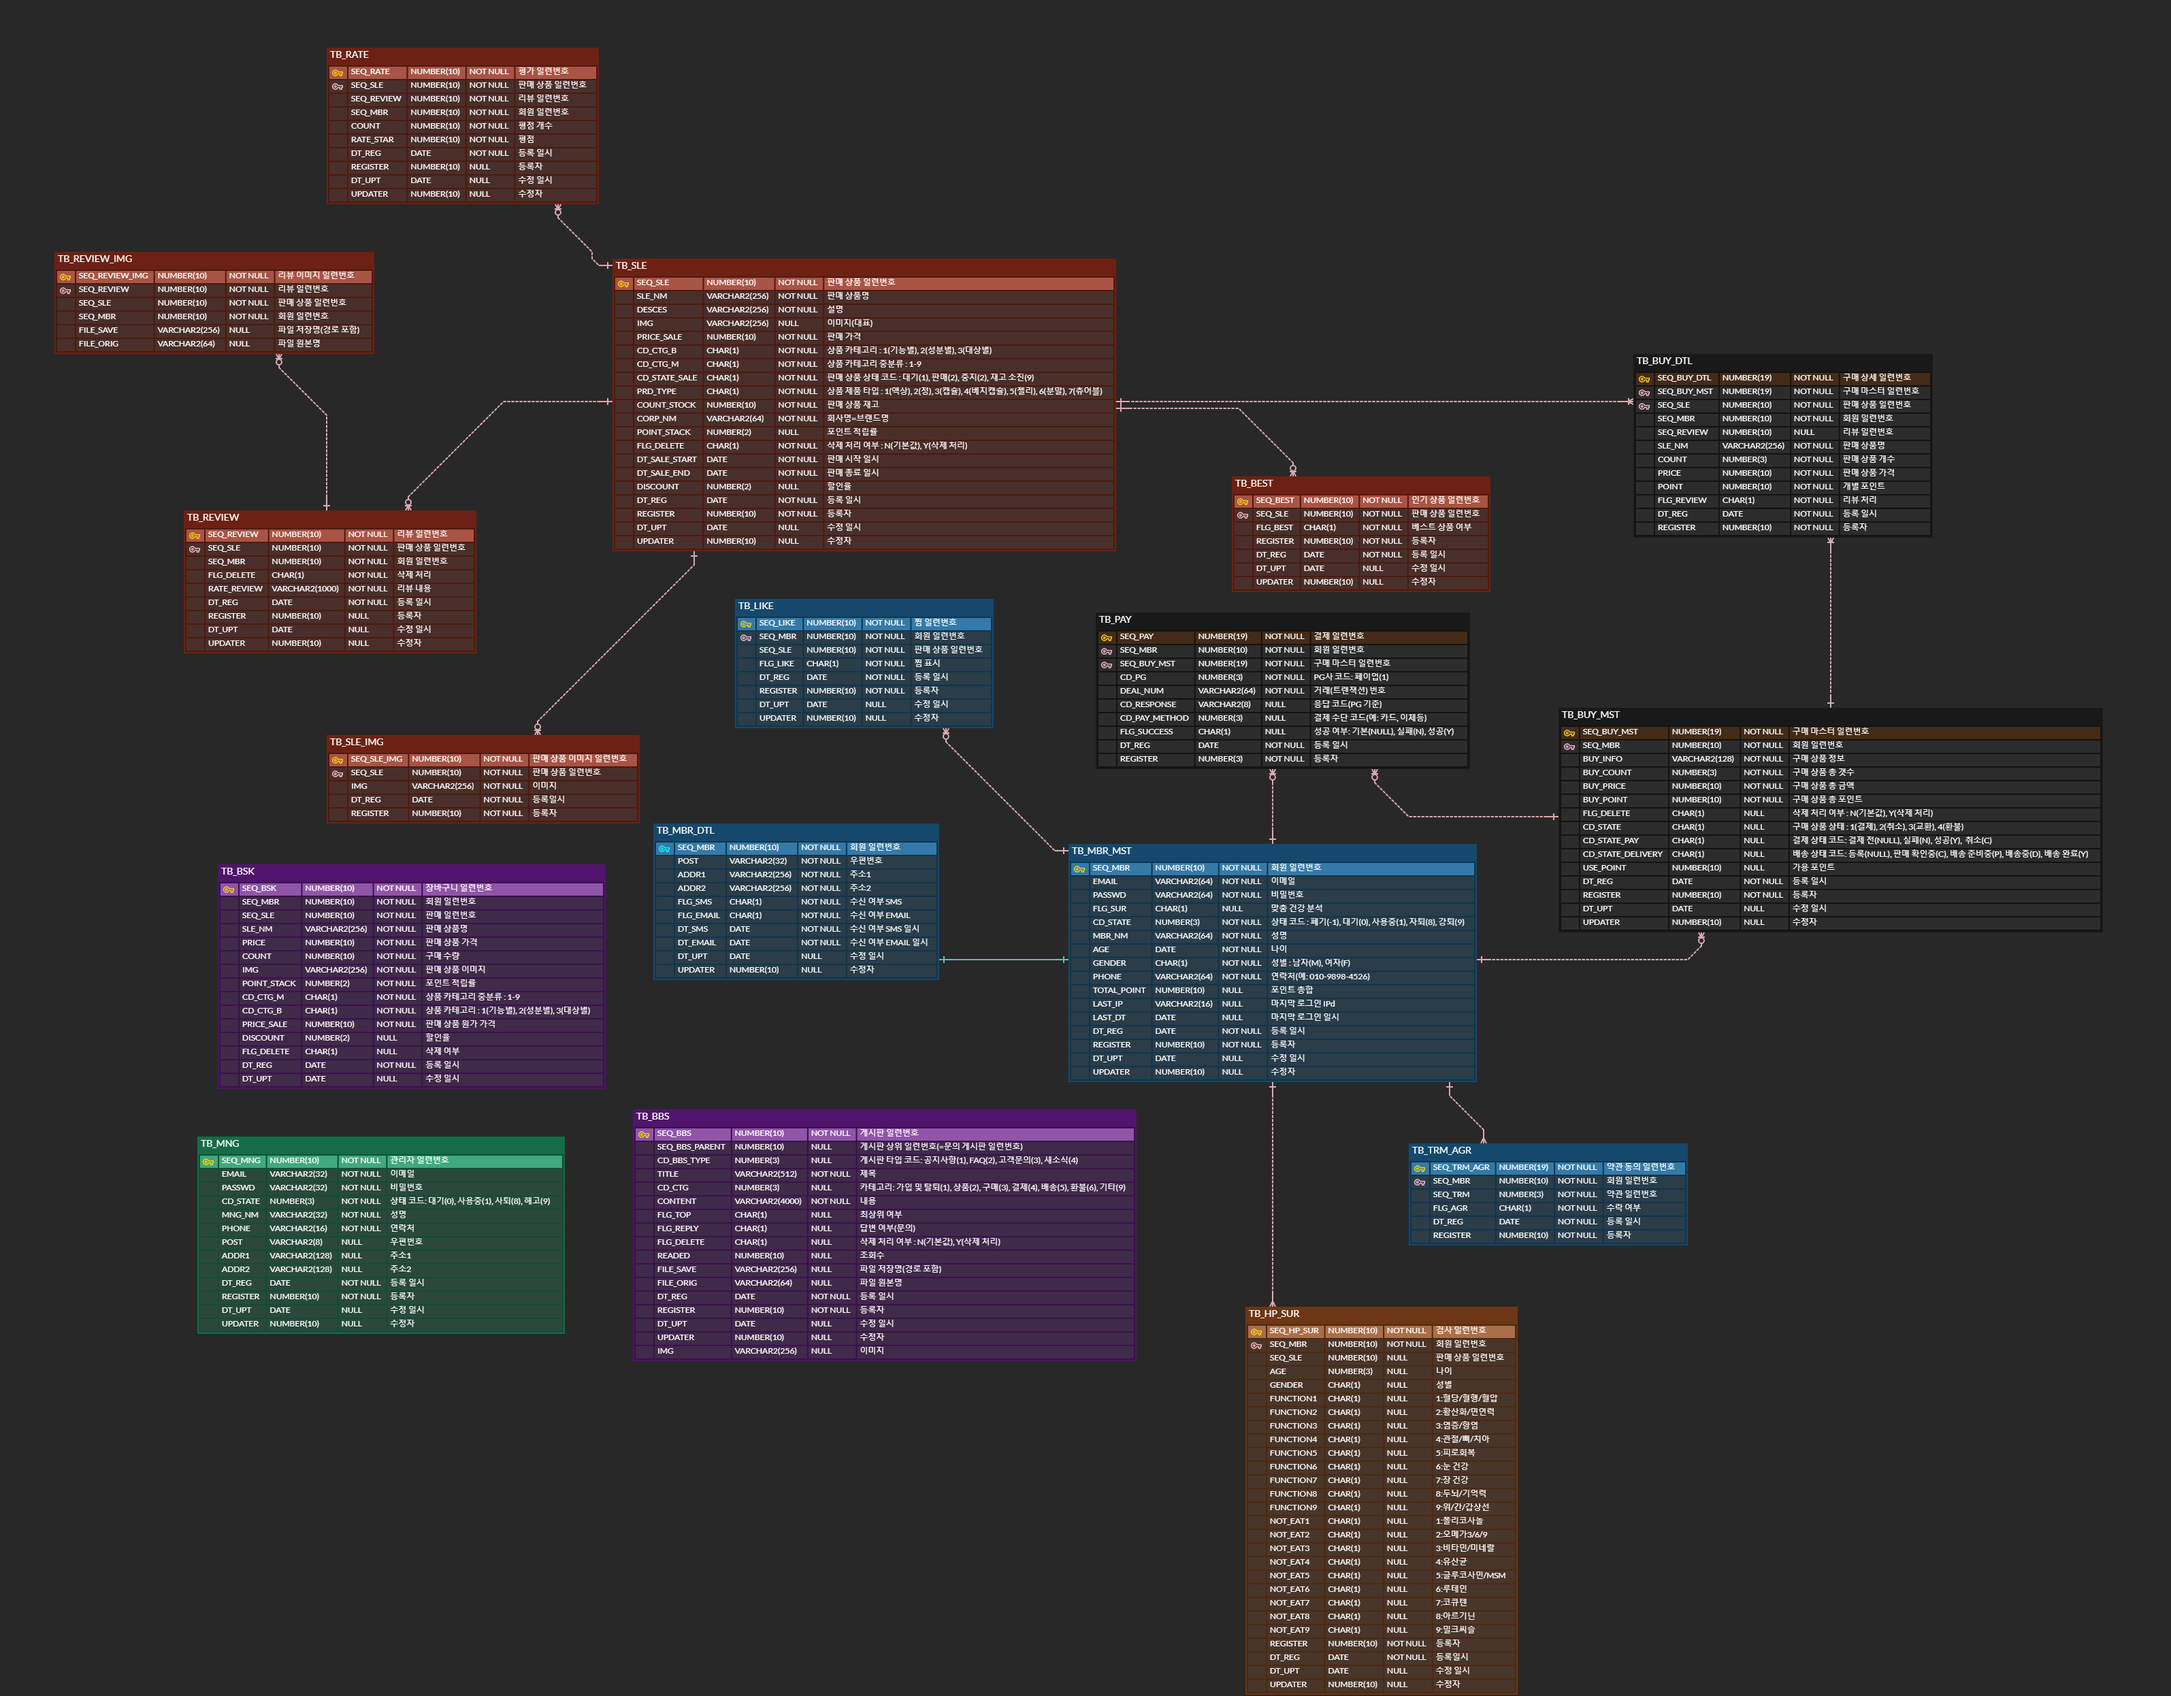
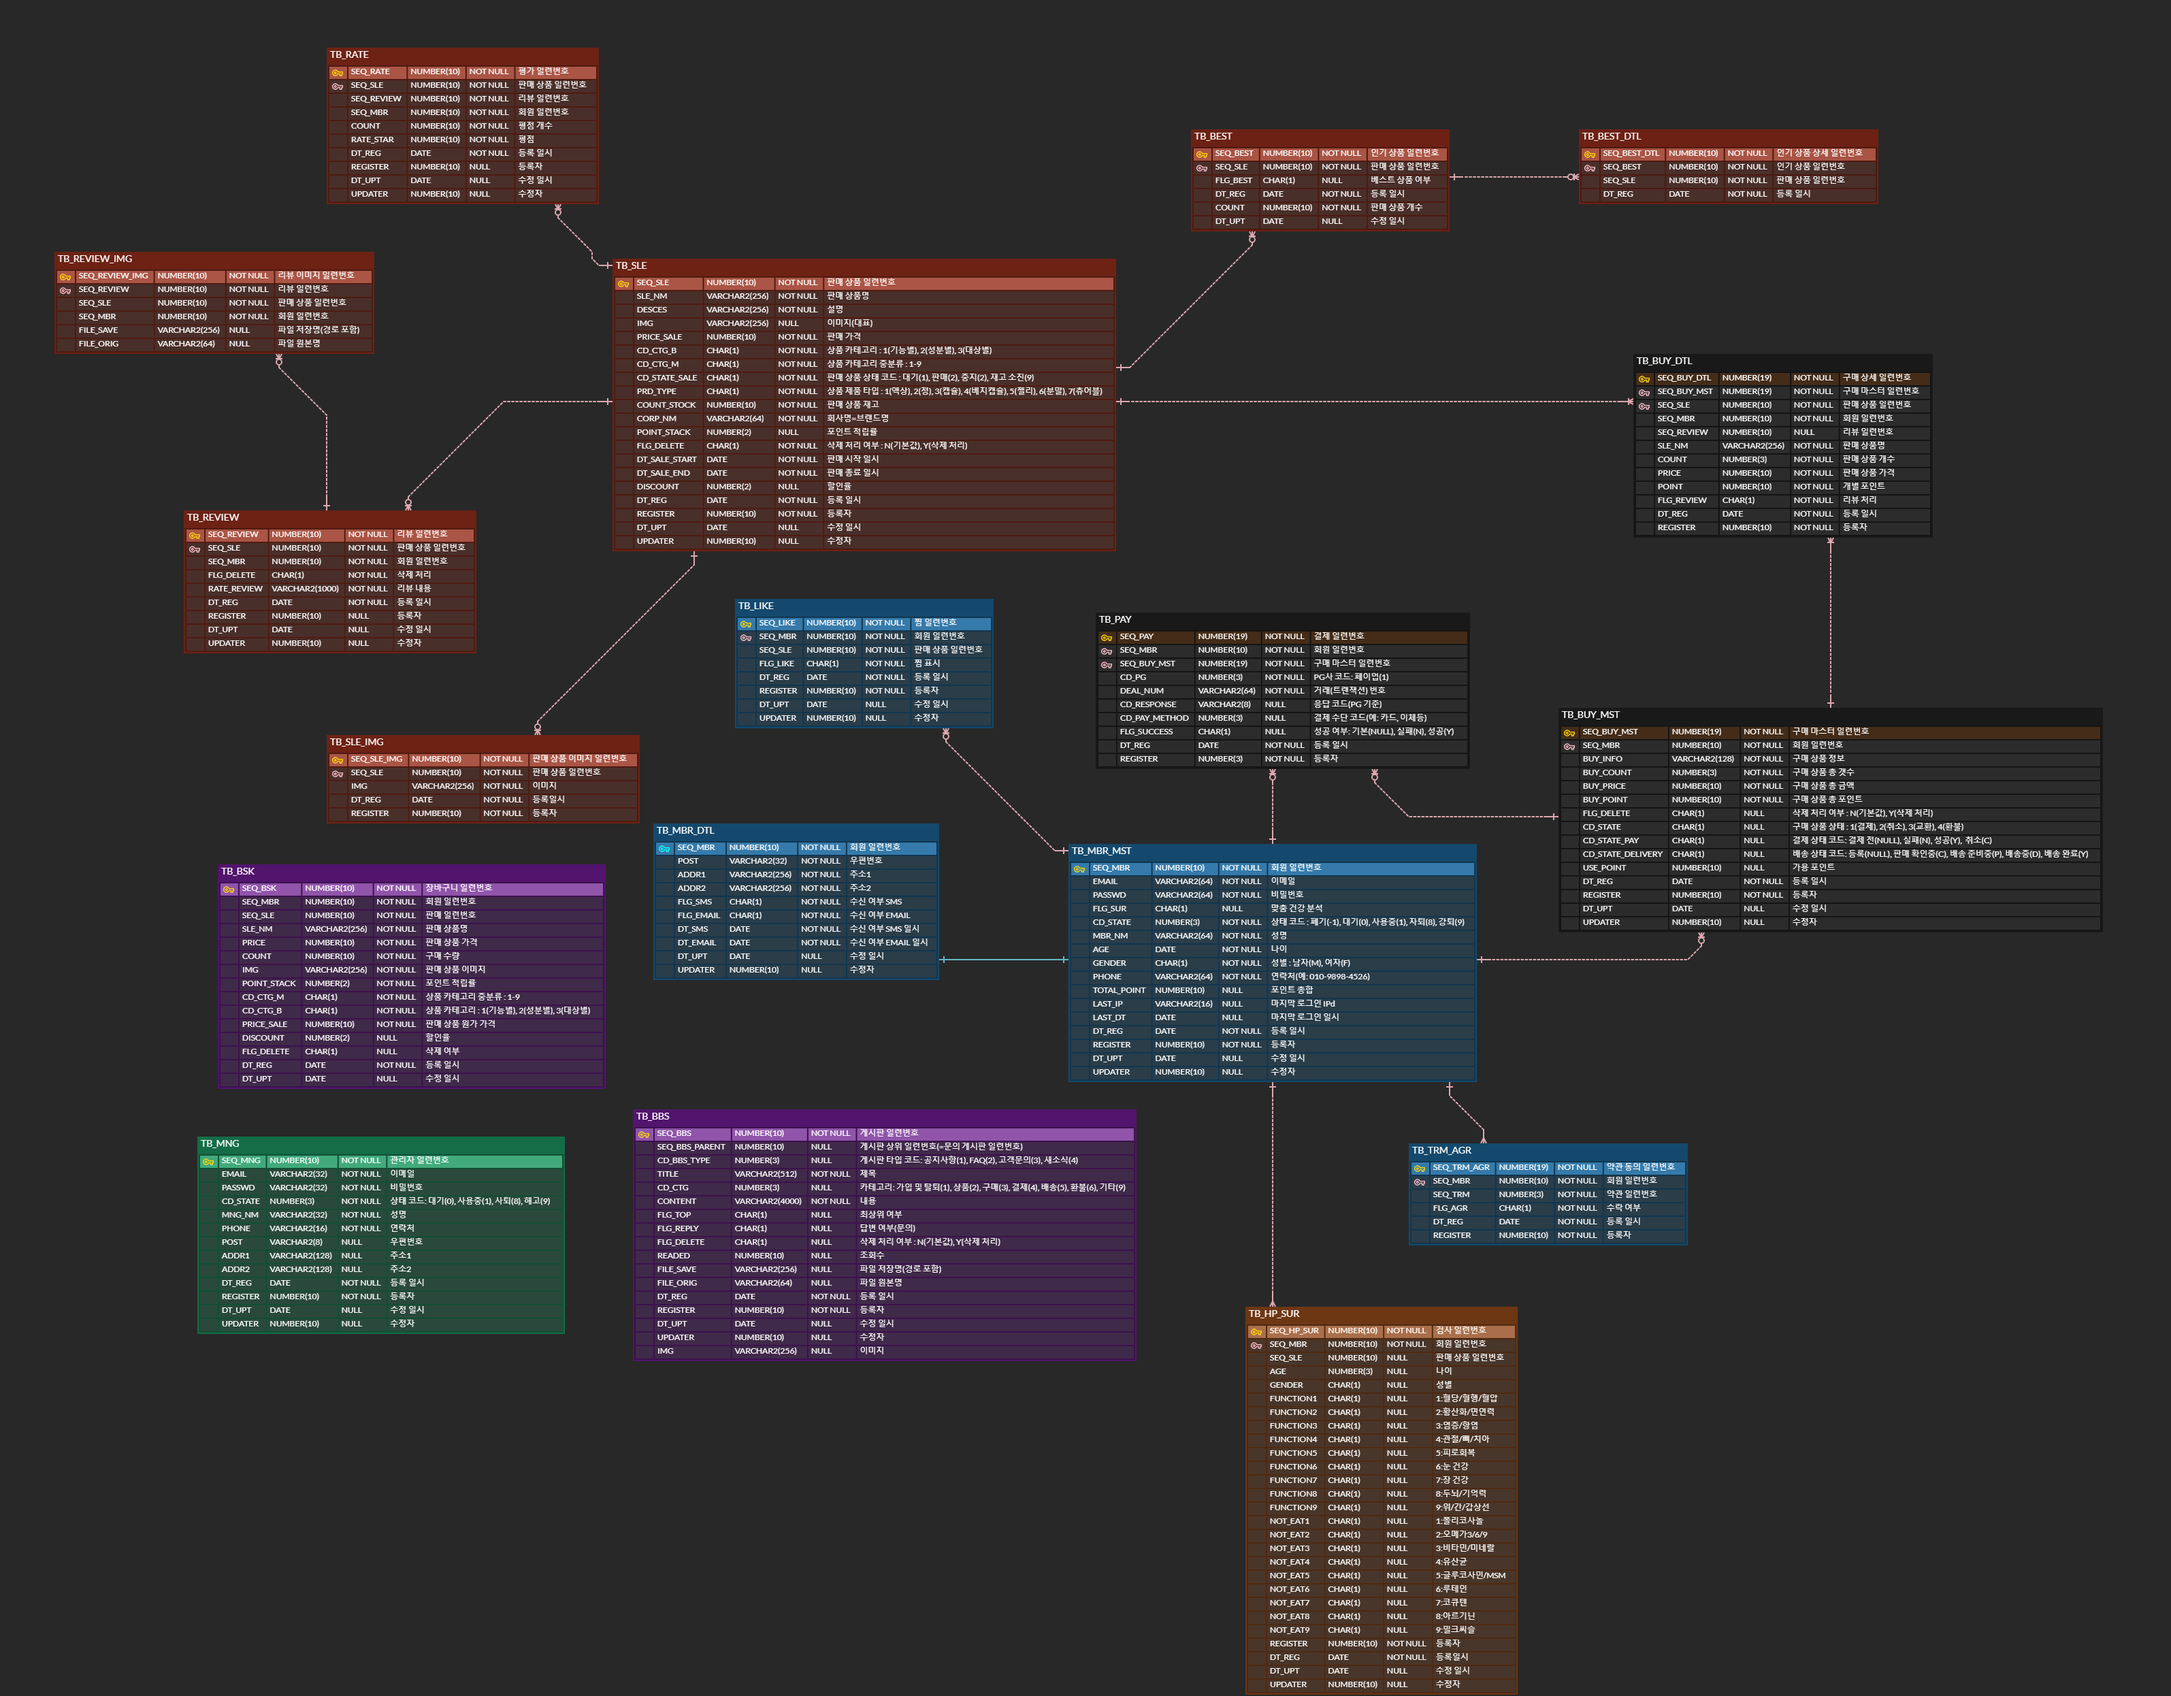
[UPDATE] 인가 상품 테이블 분리 및 코드 수정

Changed region(s): [[0.5276, 0.0618, 0.6828, 0.1545], [0.5586, 0.2781, 0.7138, 0.3708], [0.7138, 0.0618, 0.869, 0.1236]]

diff --git a/src/kr/co/bravomylife/front/buy/dto/BuyDetailDto.java b/src/kr/co/bravomylife/front/buy/dto/BuyDetailDto.java
@@ -30,21 +30,23 @@ package kr.co.bravomylife.front.buy.dto;
  */
 public class BuyDetailDto {
 	
-	private int seq_buy_dtl		= 0;
-	private int seq_buy_mst		= 0;
-	private int seq_sle			= 0;
-	private String deal_num		= "";
-	private int count			= 0;
-	private int price			= 0;
-	private String dt_reg		= "";
-	private int register		= 0;
-	private String sle_nm		= "";
-	private int point			= 0;
-	private int total_price_sum			= 0;
-	private int total_point_sum			= 0;
-	private String format_total_price	= "";
-	private String format_total_point	= "";
-	private int seq_mbr					= 0;
+	private int seq_buy_dtl					= 0;
+	private int seq_buy_mst					= 0;
+	private int seq_sle						= 0;
+	private String deal_num					= "";
+	private int count						= 0;
+	private int price						= 0;
+	private String dt_reg					= "";
+	private int register					= 0;
+	private String sle_nm					= "";
+	private int point						= 0;
+	private int total_price_sum				= 0;
+	private int total_point_sum				= 0;
+	private String format_total_price		= "";
+	private String format_total_point		= "";
+	private int seq_mbr						= 0;
+	private int seq_best					= 0;
+	private int seq_best_dtl				= 0;
 	
 	private int rnum						= 0;
 	private String cd_state					= "";
@@ -53,16 +55,25 @@ public class BuyDetailDto {
 	private String img						= "";
 	private int discount					= 0;
 	private int discount_sale				= 0;
-	private String cd_ctg_b					= "";	
+	private String cd_ctg_b					= "";
 	private String cd_ctg_m					= "";
 	private String flg_delete				= "";
 	private int point_stack					= 0;
-	private int price_sale			= 0;
+	private int price_sale					= 0;
 	
 	
-	
-	
-	
+	public int getSeq_best() {
+		return seq_best;
+	}
+	public void setSeq_best(int seq_best) {
+		this.seq_best = seq_best;
+	}
+	public int getSeq_best_dtl() {
+		return seq_best_dtl;
+	}
+	public void setSeq_best_dtl(int seq_best_dtl) {
+		this.seq_best_dtl = seq_best_dtl;
+	}
 	public int getPrice_sale() {
 		return price_sale;
 	}

diff --git a/src/kr/co/bravomylife/front/buy/dao/BuyDao.java b/src/kr/co/bravomylife/front/buy/dao/BuyDao.java
@@ -41,6 +41,22 @@ import kr.co.bravomylife.front.sale.dto.SaleDto;
 @Service("kr.co.bravomylife.front.buy.dao.BuyDao")
 public class BuyDao extends BaseDao {
 	
+	public int insertBestMst(BuyDetailDto buyDetailDto) {
+		return sqlSessionFront.insert("kr.co.bravomylife.front.mybatis.buy.BuyDetail.insertBestMst", buyDetailDto);
+	}
+	
+	public int updateBestMst(BuyDetailDto buyDetailDto) {
+		return sqlSessionFront.update("kr.co.bravomylife.front.mybatis.buy.BuyDetail.updateBestMst", buyDetailDto);
+	}
+	
+	public int insertBestCheck(BuyDetailDto buyDetailDto) {
+		return sqlSessionFront.selectOne("kr.co.bravomylife.front.mybatis.buy.BuyDetail.insertBestCheck", buyDetailDto);
+	}
+	
+	public int sequenceBest() {
+		return sqlSessionFront.selectOne("kr.co.bravomylife.front.mybatis.buy.BuyDetail.sequenceBest");
+	}
+	
 	public int insertBest(BuyDetailDto buyDetailDto) {
 		return sqlSessionFront.insert("kr.co.bravomylife.front.mybatis.buy.BuyDetail.insertBest", buyDetailDto);
 	}

diff --git a/src/kr/co/bravomylife/front/buy/service/BuySrvc.java b/src/kr/co/bravomylife/front/buy/service/BuySrvc.java
@@ -121,6 +121,7 @@ public class BuySrvc {
 		// 구매 상세 정보들
 		for (int loop = 0; loop < listBuyDetailDto.size(); loop++) {
 			
+			listBuyDetailDto.get(loop).setSeq_best(buyDao.sequenceBest());
 			listBuyDetailDto.get(loop).setSeq_buy_dtl(buyDao.sequenceDetail());
 			listBuyDetailDto.get(loop).setSeq_buy_mst(buyMasterDto.getSeq_buy_mst());
 			listBuyDetailDto.get(loop).setRegister(buyMasterDto.getRegister());
@@ -128,6 +129,16 @@ public class BuySrvc {
 			result += buyDao.insertDetail(listBuyDetailDto.get(loop));
 			result += buyDao.updateCountStock(listBuyDetailDto.get(loop));
 			
+			int check = buyDao.insertBestCheck(listBuyDetailDto.get(loop));
+			
+			if (check >= 1) {
+				
+				buyDao.updateBestMst(listBuyDetailDto.get(loop));
+			}
+			else if (check == 0) {
+				
+				buyDao.insertBestMst(listBuyDetailDto.get(loop));
+			}
 			bestCount = listBuyDetailDto.get(loop).getCount();
 			
 			for (int _loop = 0; _loop < bestCount; _loop++) {
